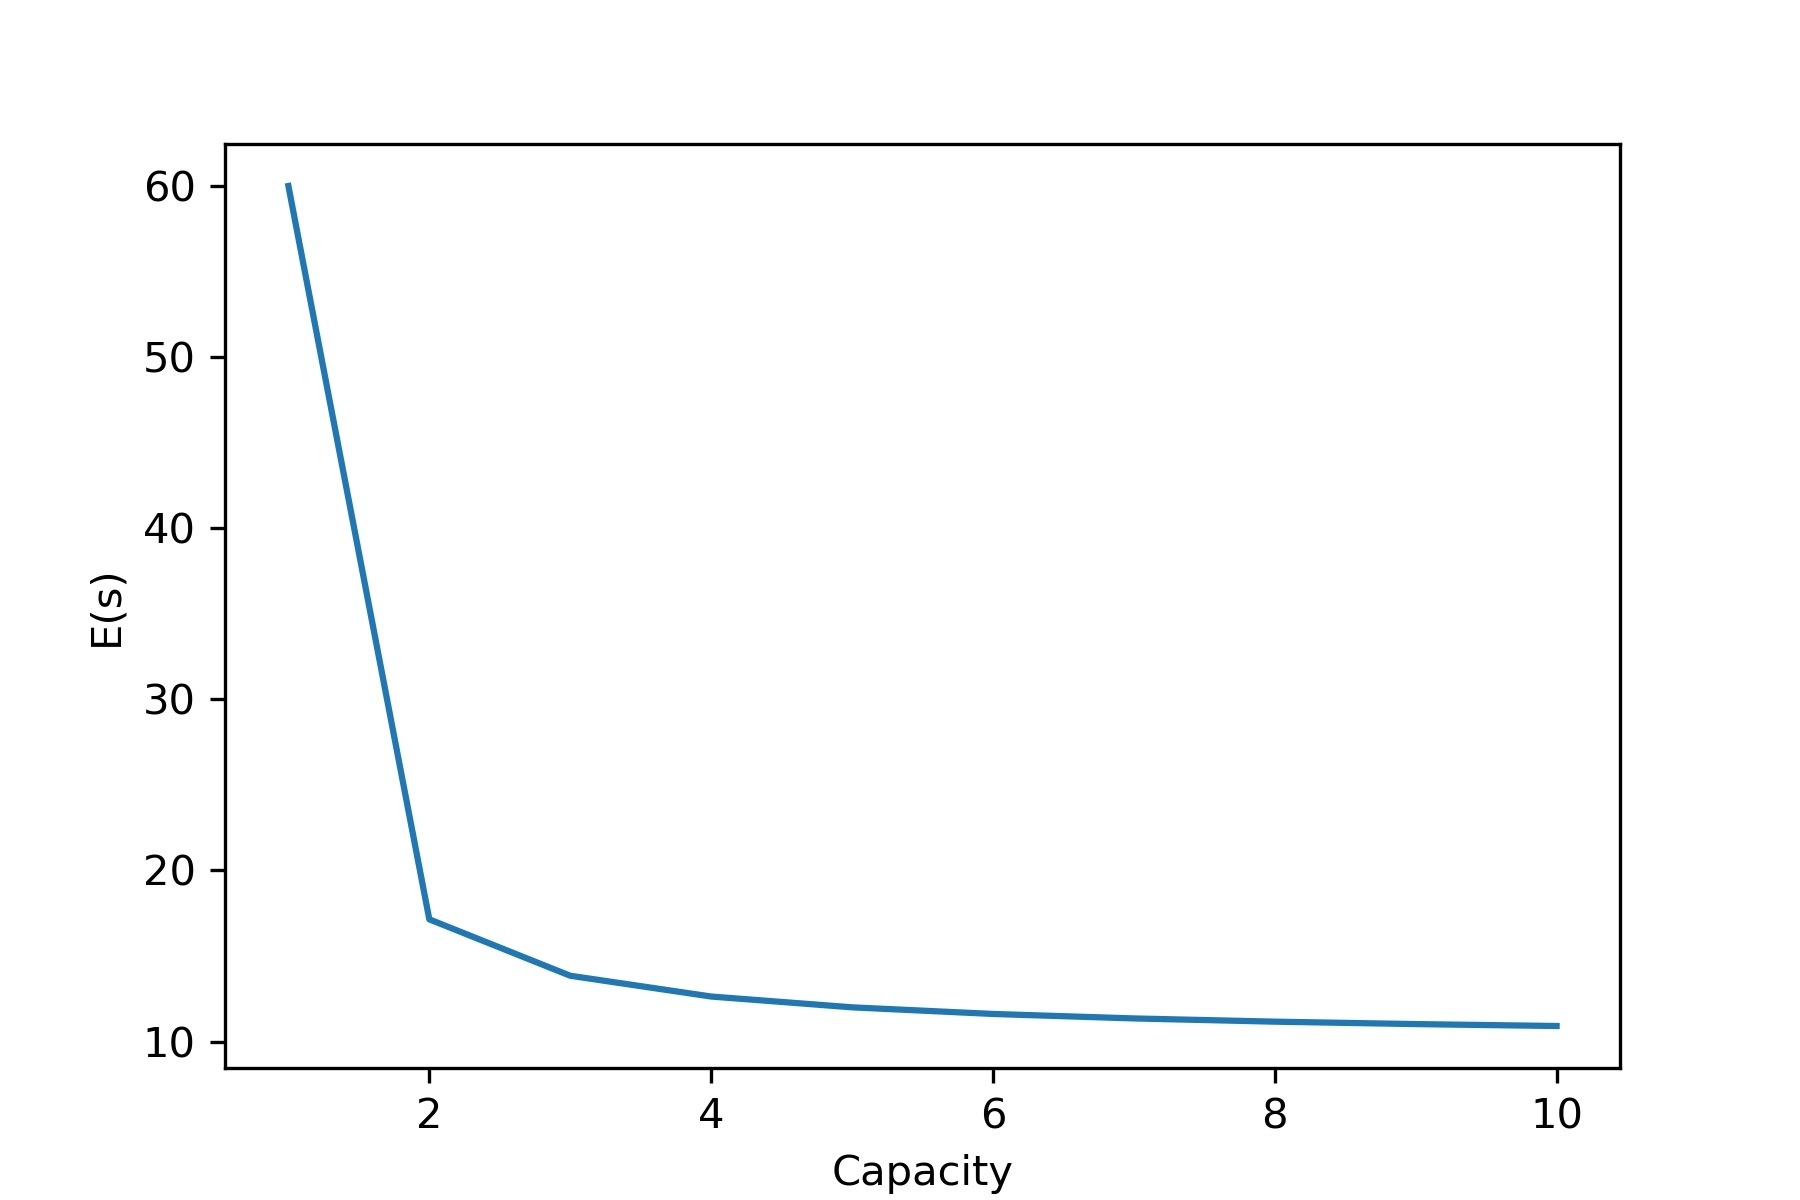
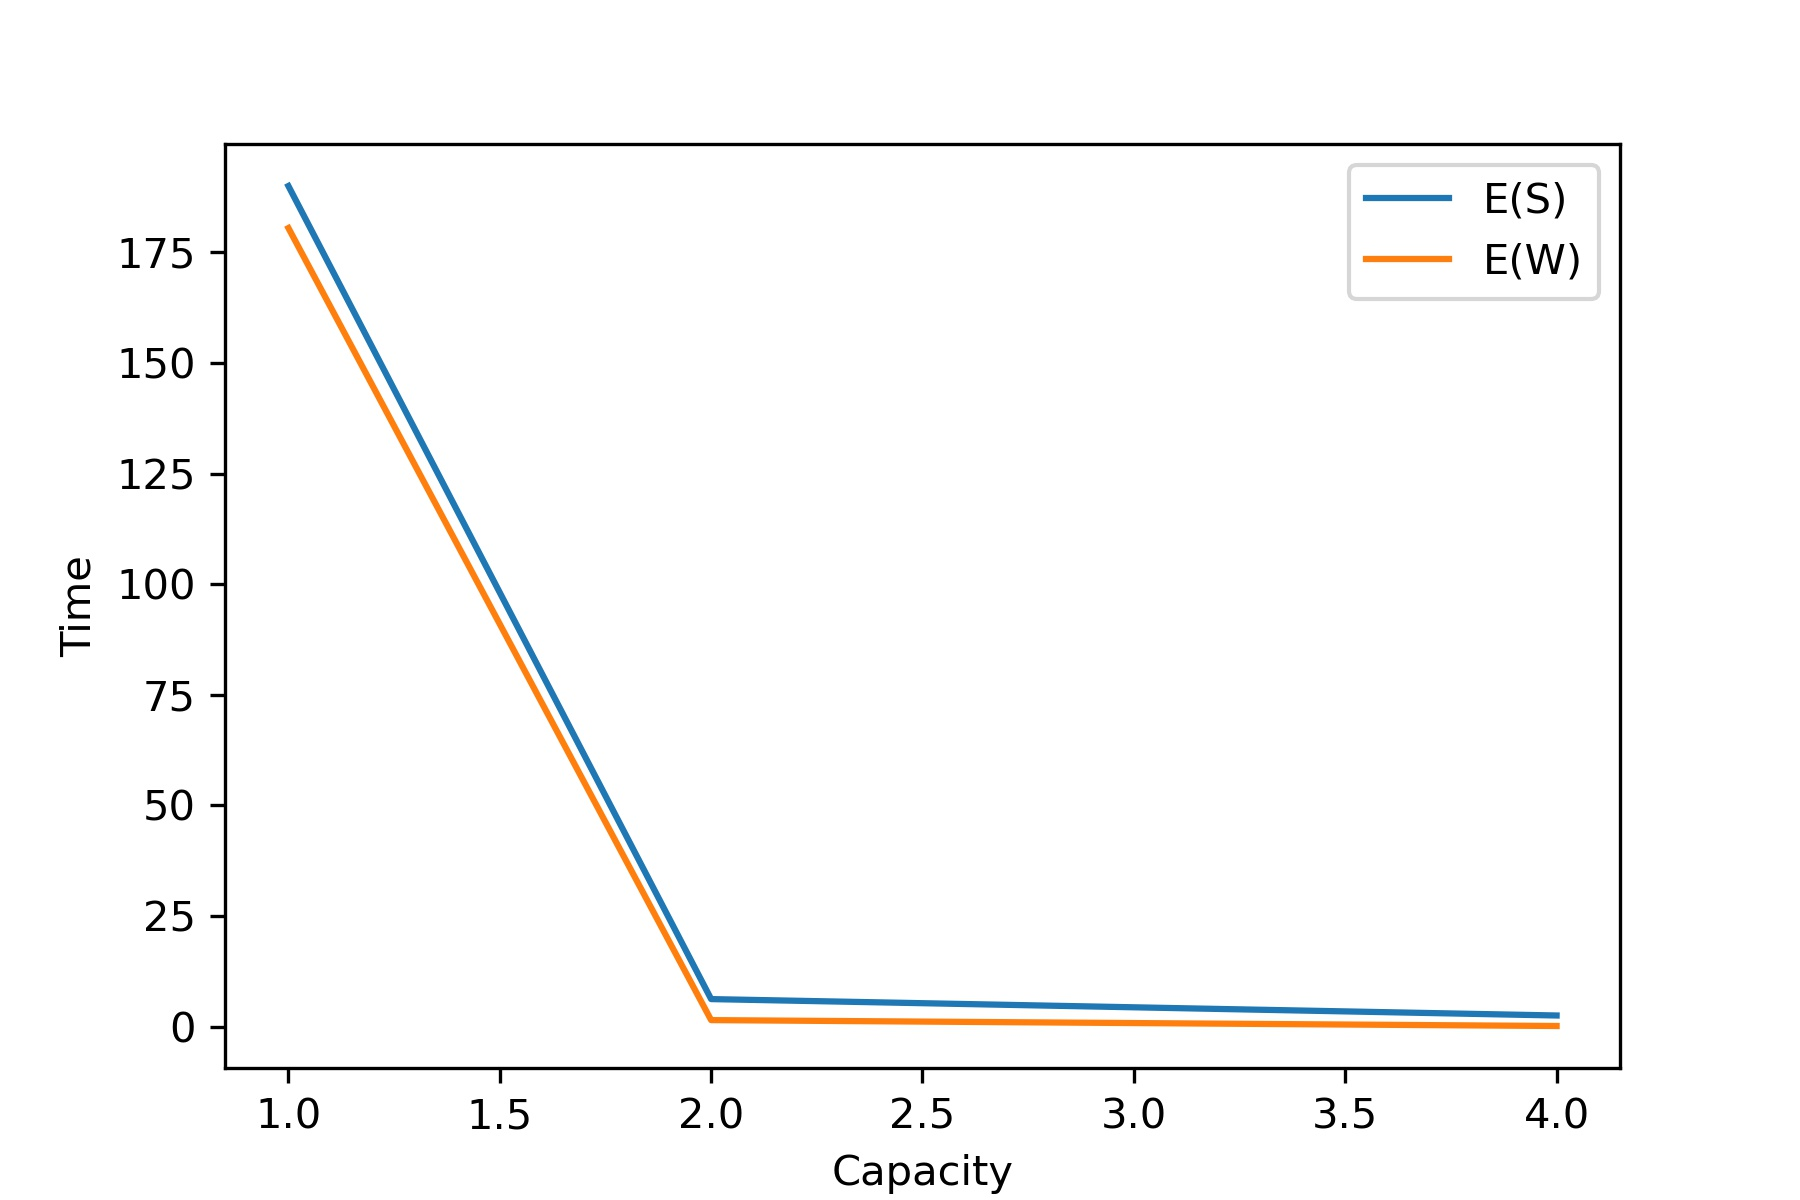
test

diff --git a/ass2.py b/ass2.py
@@ -14,80 +14,157 @@ Scenario:
 import random
 from tqdm import tqdm
 import statistics as st
+from simpy import *
 import simpy
 import seaborn as sns
 import matplotlib.pyplot as plt
 fig = plt.figure(figsize=(6,4), dpi=300)
 
 
-RANDOM_SEED = 42
-NEW_CUSTOMERS = 10000  # Total number of customers
-INTERVAL_CUSTOMERS = 12.0  # Generate new customers roughly every x seconds
-INTERVAL_SERVICE = 10.0 # Service takes roughly 10 seconds of time
+RANDOM_SEED = 12345
+NEW_CUSTOMERS = 100000 # Total number of customers
+INTERVAL_CUSTOMERS = 10.0  # Generate new customers roughly every x seconds
+INTERVAL_SERVICE = 9.5 # Service takes roughly 10 seconds of time
 
-ARR_RATE = 1/INTERVAL_CUSTOMERS
-SERV_RATE = 1/ INTERVAL_SERVICE
-CAP = 1
+ARR_RATE = 1/INTERVAL_CUSTOMERS  #lambda
+SERV_RATE = 1/INTERVAL_SERVICE   #mu
+
+def system_load(n):
+    # We assume the same load characteristics for every experiment:
+    # This means the arrival rate is set to be n-fold lower.
+    p = (ARR_RATE/n) / (n*SERV_RATE)
+    return p
 
 
-def source(env, number, counter):
-    soj_times = []
+def source(env, number, counters):
     """Source generates customers randomly"""
     for i in tqdm(range(number)):
-        c = customer(env, 'Customer%02d' % i, counter)
-        soj_time = yield env.process(c)
-        soj_times.append(soj_time)
-        t = random.expovariate(ARR_RATE)
+        c = customer(env, counters, name="customer_%s"%i)
+        env.process(c)
+        t = random.expovariate(ARR_RATE/len(counters))  # divide by len(counters) to obtain n-fold lower arr. rate
         yield env.timeout(t)
 
-    print('Mean soj time: ', st.mean(soj_times))
-    #sns.displot(soj_times)
-    #plt.xlabel('sojourn time')
-    #plt.savefig('sojourn_displot_%s.jpg'%CAP)
+def no_in_sys(r):
+    return max([0, len(r.put_queue) + len(r.users)])
 
-def customer(env, name, counter):
-    """Customer arrives, is served and leaves."""
+def customer(env, counters, name):
+    """Customer arrives, waits, is served and leaves."""
     arrive = env.now
-    #print('%7.4f %s: Here I am' % (arrive, name))
-
-    with counter.request() as req:
-        results = yield req | env.timeout(1000)
-
+    #print('%s arrives at %s' %(name, arrive))
+    queue_length = [no_in_sys(counters[i]) for i in range(len(counters))]
+    #print('queue length: ', queue_length)
+    choice = 0
+    for i in range(len(queue_length)):
+        if queue_length[i] == 0 or queue_length[i] == min(queue_length):
+            choice = i  # the chosen queue number
+            break
+    # wait till counter becomes available:
+    with counters[choice].request() as req:
+        yield req
+        #print('Queue size: ', len(counters[choice].queue))
         wait = env.now - arrive
+        #print('%s has waited %s seconds' % (name, wait ))
+        tib = random.expovariate(SERV_RATE/len(counters))  # divide by cap as serv rate decreases if cap rises
+        yield env.timeout(tib)
+        end = env.now
+        #print('%s got finished at %s' % (name, end))
+        service_time = tib
+        sojourn_time = tib + wait
+        dists["MM%s" % len(counters)]['wait_times'].append(wait)
+        dists["MM%s" % len(counters)]['serv_times'].append(service_time)
+        dists["MM%s" % len(counters)]['soj_times'].append(sojourn_time)
+        return
+        #print('%7.4f %s: Sojourn Time' % (end-arrive, name))
+        #print('%7.4f %s: Finished' % (env.now, name))
 
-        if req in results:
-            # We got to the counter
-            #print('%7.4f %s: Waited %6.3f' % (env.now, name, wait))
-            # We get served
-            tib = random.expovariate(SERV_RATE)
-            yield env.timeout(tib)
-            end = env.now
-            soj_time = end-arrive
-            return soj_time
-            #print('%7.4f %s: Sojourn Time' % (end-arrive, name))
-            #print('%7.4f %s: Finished' % (env.now, name))
-
-
-# Setup and start the simulation
-random.seed(RANDOM_SEED)
-env = simpy.Environment()
 
 # Start processes and run
-capacities = list(range(1,11))
+capacities = [1, 2, 4]
 es_list = []
+wait_list = []
+metrics = ['wait_times', 'serv_times', 'soj_times']
+dists = {
+    'MM1' : {
+        'wait_times' : [],
+        'serv_times' : [],
+        'soj_times' : []
+    },
+    'MM2' : {
+        'wait_times' : [],
+        'serv_times' : [],
+        'soj_times' : []
+    },
+    'MM4' : {
+        'wait_times' : [],
+        'serv_times' : [],
+        'soj_times' : []
+    },
+    'MM1_short_job_first' :{
+    },
+    'MD1' : {
+    },
+    'MD2' : {
+    },
+    'MD4' : {
+    },
+    'M_hyperexp_1': {
+    },
+    'M_hyperexp_2': {
+    },
+    'M_hyperexp_4': {
+    }}
+
 for cap in capacities:
-    CAP = cap
-    print('Bank renege')
-    system_load = ARR_RATE / (CAP * SERV_RATE)
-    el = (system_load)/(1-system_load)
-    es = (1/SERV_RATE)/(1-system_load)
-    print('System load: ', system_load)
+    p = system_load(cap)
+    el = (p)/(1-p)
+    es = (1/(SERV_RATE*cap))/(1-p)
+    wait_time = es - (1/(SERV_RATE*cap))
+    print('System load: ', p)
+    print('Mean number customers in system: ', el)
+    print('Mean sojourn time: ', es)
+    print('Mean wait time: ', wait_time)
+    print('Mean service time: ', es-wait_time)
+    print('-------------------')
     es_list.append(es)
-    counter = simpy.Resource(env, capacity=CAP)
-    env.process(source(env, NEW_CUSTOMERS, counter))
+    wait_list.append(wait_time)
+    # Setup and start the simulation
+    random.seed(RANDOM_SEED)
+    env = simpy.Environment()
+    # Perform experiments
+    counters = []
+    for i in range(cap):
+        counters.append(Resource(env))
+    env.process(source(env, NEW_CUSTOMERS, counters))
     env.run()
 
-plt.plot(capacities, es_list)
+def plot_functions(results, capacities, metrics):
+    for met in metrics:
+        plt.clf()
+        for cap in capacities[::-1]:
+            plt.hist(results['MM%s'%cap][met], label='n=%s'%cap)
+            plt.xlabel('%s'%met)
+            plt.ylabel('Frequency')
+            plt.legend()
+        plt.savefig('displots/%s_n_%s.jpg' %(met, NEW_CUSTOMERS))
+    return
+
+def get_stats(results, capacities, metrics):
+    for cap in capacities:
+        for met in metrics:
+            cap_met = results['MM%s'%cap][met]
+            results['MM%s' % cap]['mean_%s' %met] = st.mean(cap_met)
+            results['MM%s' % cap]['max_%s' %met] = max(cap_met)
+            print('mean MM%s, met %s: %s'%(cap, met, st.mean(cap_met)))
+    return
+
+plot_functions(dists, capacities, metrics)
+get_stats(dists, capacities, metrics)
+
+
+plt.clf()
+plt.plot(capacities, es_list, label='E(S)')
+plt.plot(capacities, wait_list, label='E(W)')
+plt.legend()
 plt.xlabel('Capacity')
-plt.ylabel('E(s)')
+plt.ylabel('Time')
 plt.savefig('expdecay_sojourningtime.jpg')
